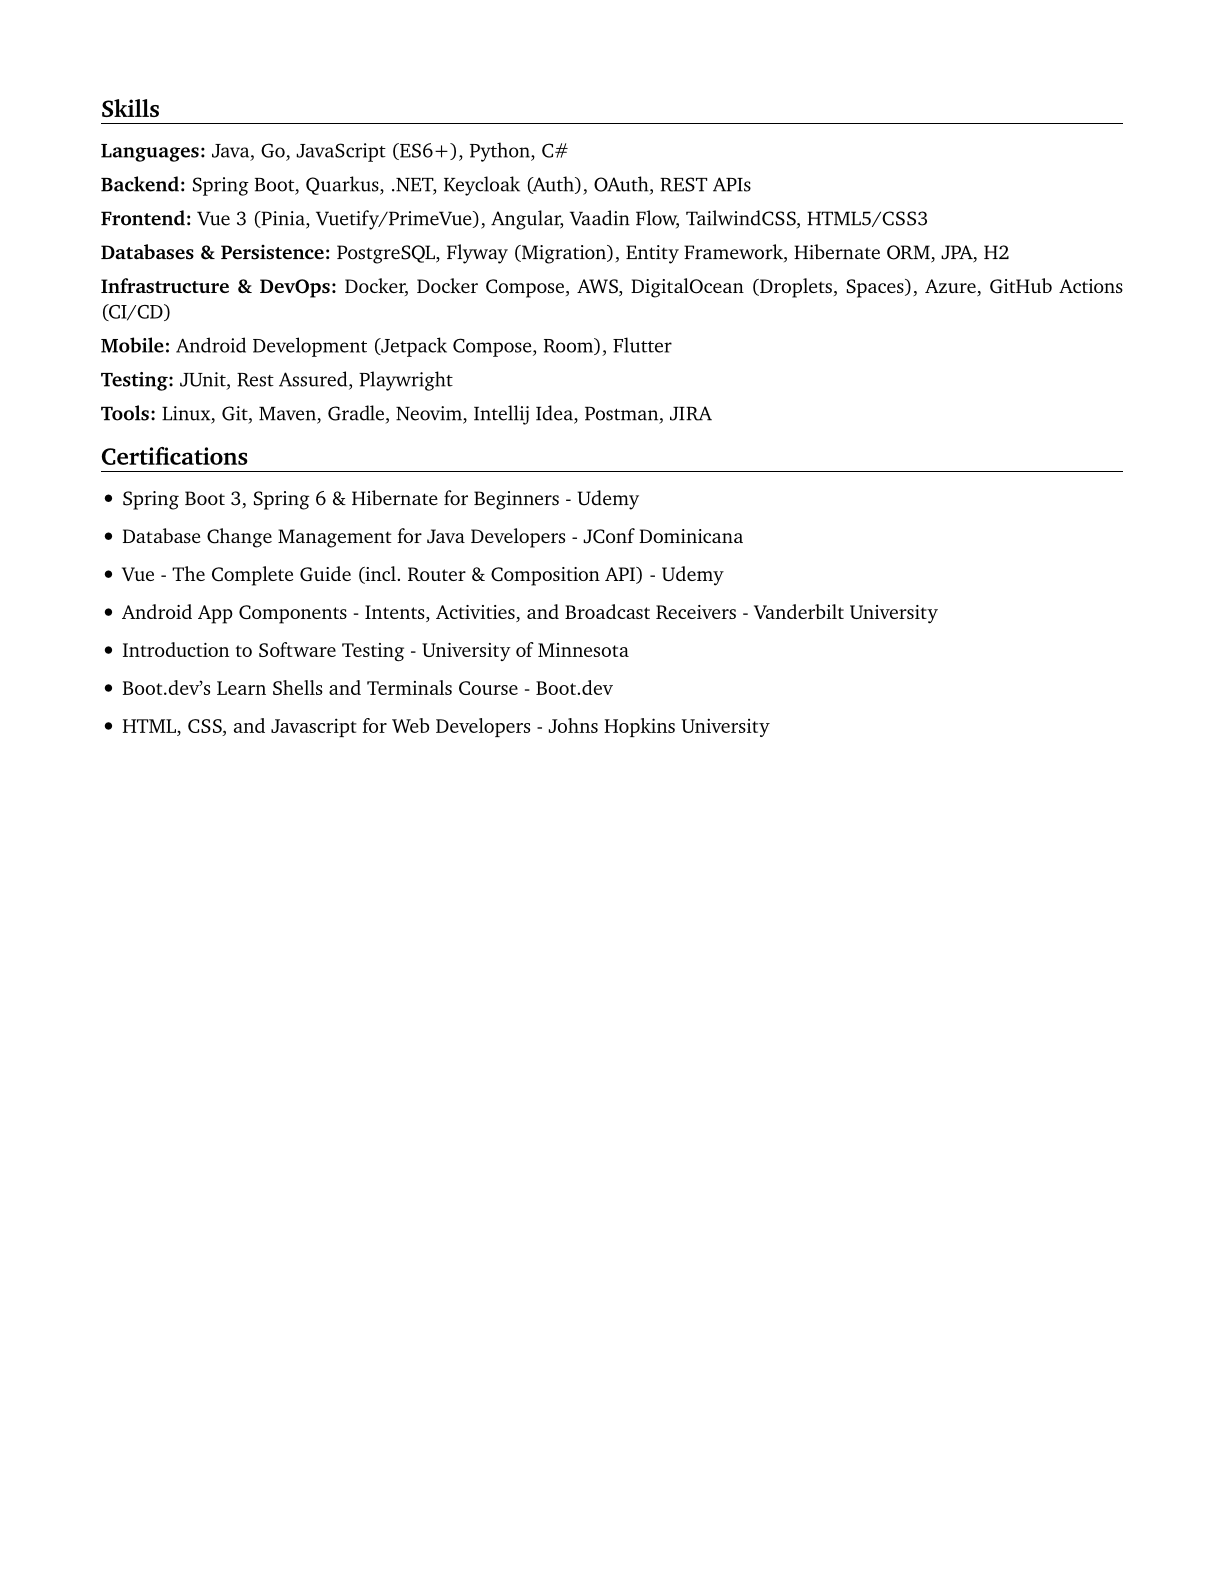
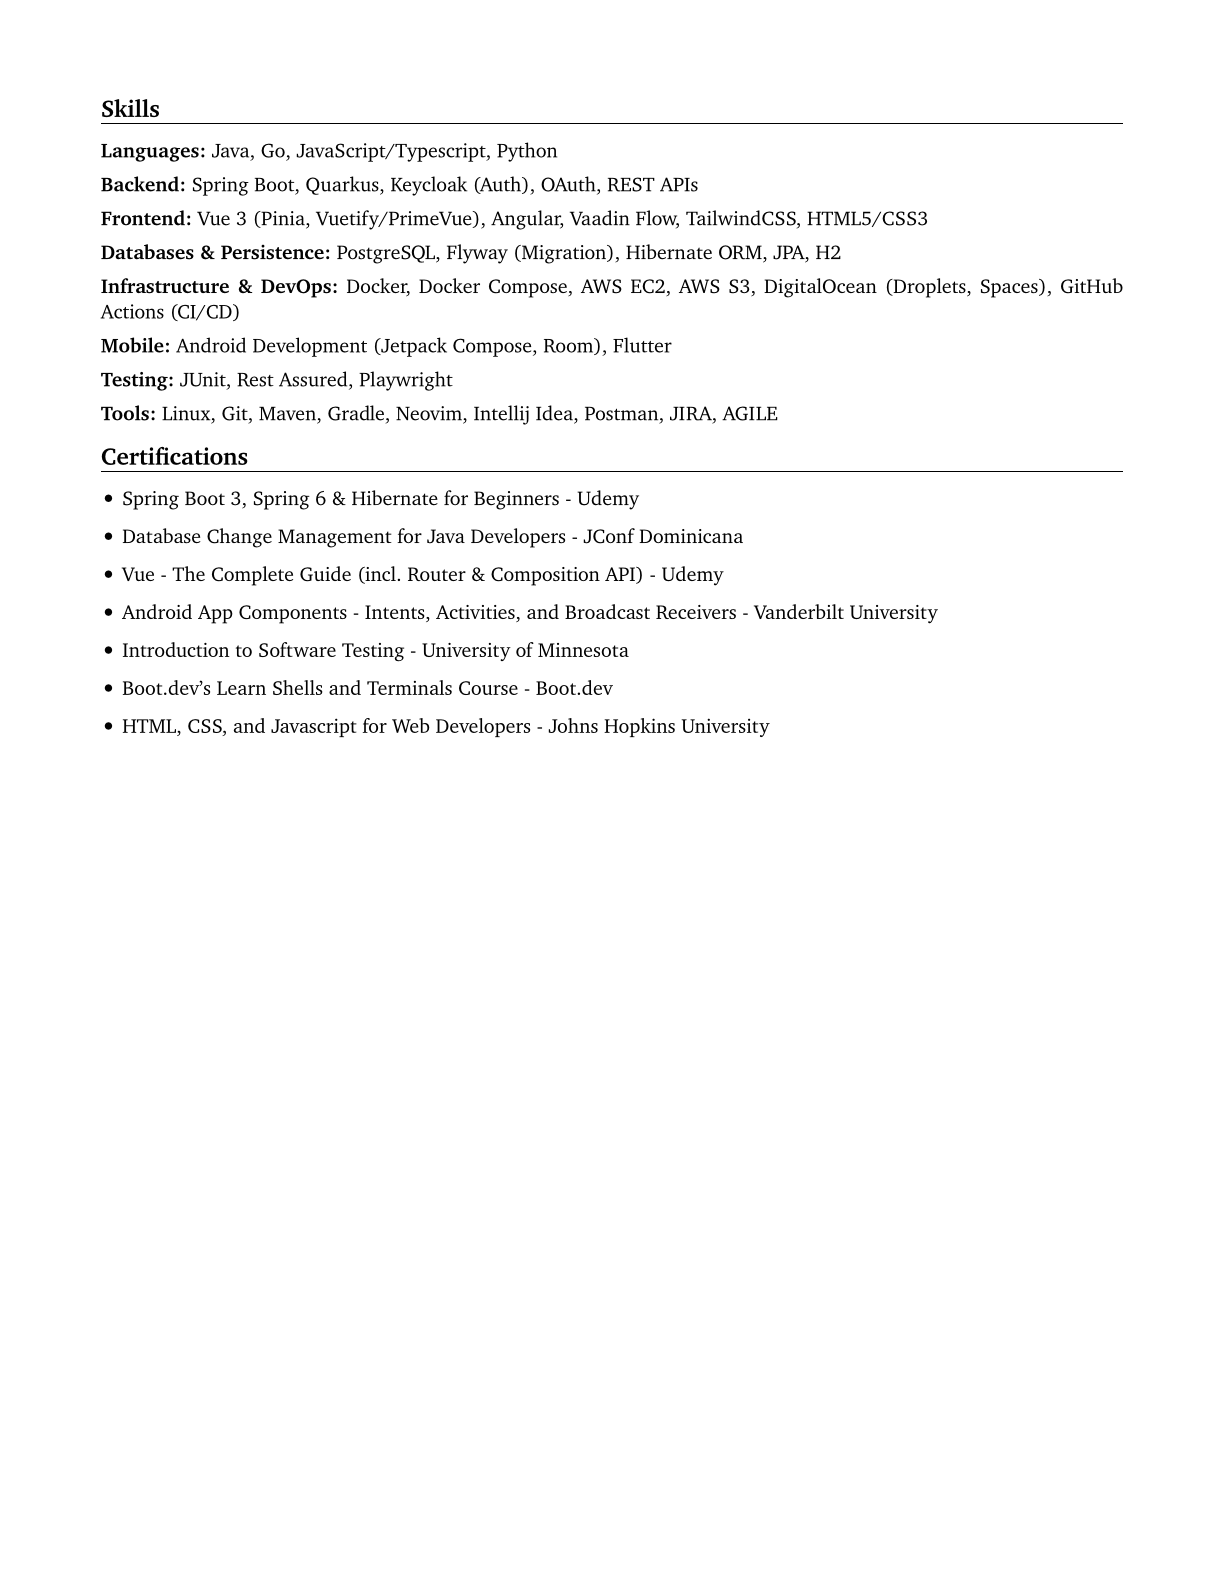
remove c#

diff --git a/index.html b/index.html
@@ -102,14 +102,14 @@
         </li>
         </ul>
         <h1>Skills</h1>
-        <p><strong>Languages:</strong> Java, Go, JavaScript (ES6+), Python, C#</p>
-        <p><strong>Backend:</strong> Spring Boot, Quarkus, .NET, Keycloak (Auth), OAuth, REST APIs</p>
+        <p><strong>Languages:</strong> Java, Go, JavaScript/Typescript, Python</p>
+        <p><strong>Backend:</strong> Spring Boot, Quarkus, Keycloak (Auth), OAuth, REST APIs</p>
         <p><strong>Frontend:</strong> Vue 3 (Pinia, Vuetify/PrimeVue), Angular, Vaadin Flow, TailwindCSS, HTML5/CSS3</p>
-        <p><strong>Databases &amp; Persistence:</strong> PostgreSQL, Flyway (Migration), Entity Framework, Hibernate ORM, JPA, H2</p>
-        <p><strong>Infrastructure &amp; DevOps:</strong> Docker, Docker Compose, AWS, DigitalOcean (Droplets, Spaces), Azure, GitHub Actions (CI/CD)</p>
+        <p><strong>Databases &amp; Persistence:</strong> PostgreSQL, Flyway (Migration), Hibernate ORM, JPA, H2</p>
+        <p><strong>Infrastructure &amp; DevOps:</strong> Docker, Docker Compose, AWS EC2, AWS S3, DigitalOcean (Droplets, Spaces), GitHub Actions (CI/CD)</p>
         <p><strong>Mobile:</strong> Android Development (Jetpack Compose, Room), Flutter</p>
         <p><strong>Testing:</strong> JUnit, Rest Assured, Playwright</p>
-        <p><strong>Tools:</strong> Linux, Git, Maven, Gradle, Neovim, Intellij Idea, Postman, JIRA</p>
+        <p><strong>Tools:</strong> Linux, Git, Maven, Gradle, Neovim, Intellij Idea, Postman, JIRA, AGILE</p>
         <h1>Certifications</h1>
         <ul>
         <li>

diff --git a/rendercv_output/Randae_Garcia_Sanchez_CV.html b/rendercv_output/Randae_Garcia_Sanchez_CV.html
@@ -102,14 +102,14 @@
         </li>
         </ul>
         <h1>Skills</h1>
-        <p><strong>Languages:</strong> Java, Go, JavaScript (ES6+), Python, C#</p>
-        <p><strong>Backend:</strong> Spring Boot, Quarkus, .NET, Keycloak (Auth), OAuth, REST APIs</p>
+        <p><strong>Languages:</strong> Java, Go, JavaScript/Typescript, Python</p>
+        <p><strong>Backend:</strong> Spring Boot, Quarkus, Keycloak (Auth), OAuth, REST APIs</p>
         <p><strong>Frontend:</strong> Vue 3 (Pinia, Vuetify/PrimeVue), Angular, Vaadin Flow, TailwindCSS, HTML5/CSS3</p>
-        <p><strong>Databases &amp; Persistence:</strong> PostgreSQL, Flyway (Migration), Entity Framework, Hibernate ORM, JPA, H2</p>
-        <p><strong>Infrastructure &amp; DevOps:</strong> Docker, Docker Compose, AWS, DigitalOcean (Droplets, Spaces), Azure, GitHub Actions (CI/CD)</p>
+        <p><strong>Databases &amp; Persistence:</strong> PostgreSQL, Flyway (Migration), Hibernate ORM, JPA, H2</p>
+        <p><strong>Infrastructure &amp; DevOps:</strong> Docker, Docker Compose, AWS EC2, AWS S3, DigitalOcean (Droplets, Spaces), GitHub Actions (CI/CD)</p>
         <p><strong>Mobile:</strong> Android Development (Jetpack Compose, Room), Flutter</p>
         <p><strong>Testing:</strong> JUnit, Rest Assured, Playwright</p>
-        <p><strong>Tools:</strong> Linux, Git, Maven, Gradle, Neovim, Intellij Idea, Postman, JIRA</p>
+        <p><strong>Tools:</strong> Linux, Git, Maven, Gradle, Neovim, Intellij Idea, Postman, JIRA, AGILE</p>
         <h1>Certifications</h1>
         <ul>
         <li>

diff --git a/rendercv_output/Randae_Garcia_Sanchez_CV.md b/rendercv_output/Randae_Garcia_Sanchez_CV.md
@@ -61,21 +61,21 @@ Feb 2025 – Apr 2025
 
 
 # Skills
-**Languages:** Java, Go, JavaScript (ES6+), Python, C#
+**Languages:** Java, Go, JavaScript/Typescript, Python
 
-**Backend:** Spring Boot, Quarkus, .NET, Keycloak (Auth), OAuth, REST APIs
+**Backend:** Spring Boot, Quarkus, Keycloak (Auth), OAuth, REST APIs
 
 **Frontend:** Vue 3 (Pinia, Vuetify/PrimeVue), Angular, Vaadin Flow, TailwindCSS, HTML5/CSS3
 
-**Databases & Persistence:** PostgreSQL, Flyway (Migration), Entity Framework, Hibernate ORM, JPA, H2
+**Databases & Persistence:** PostgreSQL, Flyway (Migration), Hibernate ORM, JPA, H2
 
-**Infrastructure & DevOps:** Docker, Docker Compose, AWS, DigitalOcean (Droplets, Spaces), Azure, GitHub Actions (CI/CD)
+**Infrastructure & DevOps:** Docker, Docker Compose, AWS EC2, AWS S3, DigitalOcean (Droplets, Spaces), GitHub Actions (CI/CD)
 
 **Mobile:** Android Development (Jetpack Compose, Room), Flutter
 
 **Testing:** JUnit, Rest Assured, Playwright
 
-**Tools:** Linux, Git, Maven, Gradle, Neovim, Intellij Idea, Postman, JIRA
+**Tools:** Linux, Git, Maven, Gradle, Neovim, Intellij Idea, Postman, JIRA, AGILE
 
 # Certifications
 - Spring Boot 3, Spring 6 & Hibernate for Beginners - Udemy
